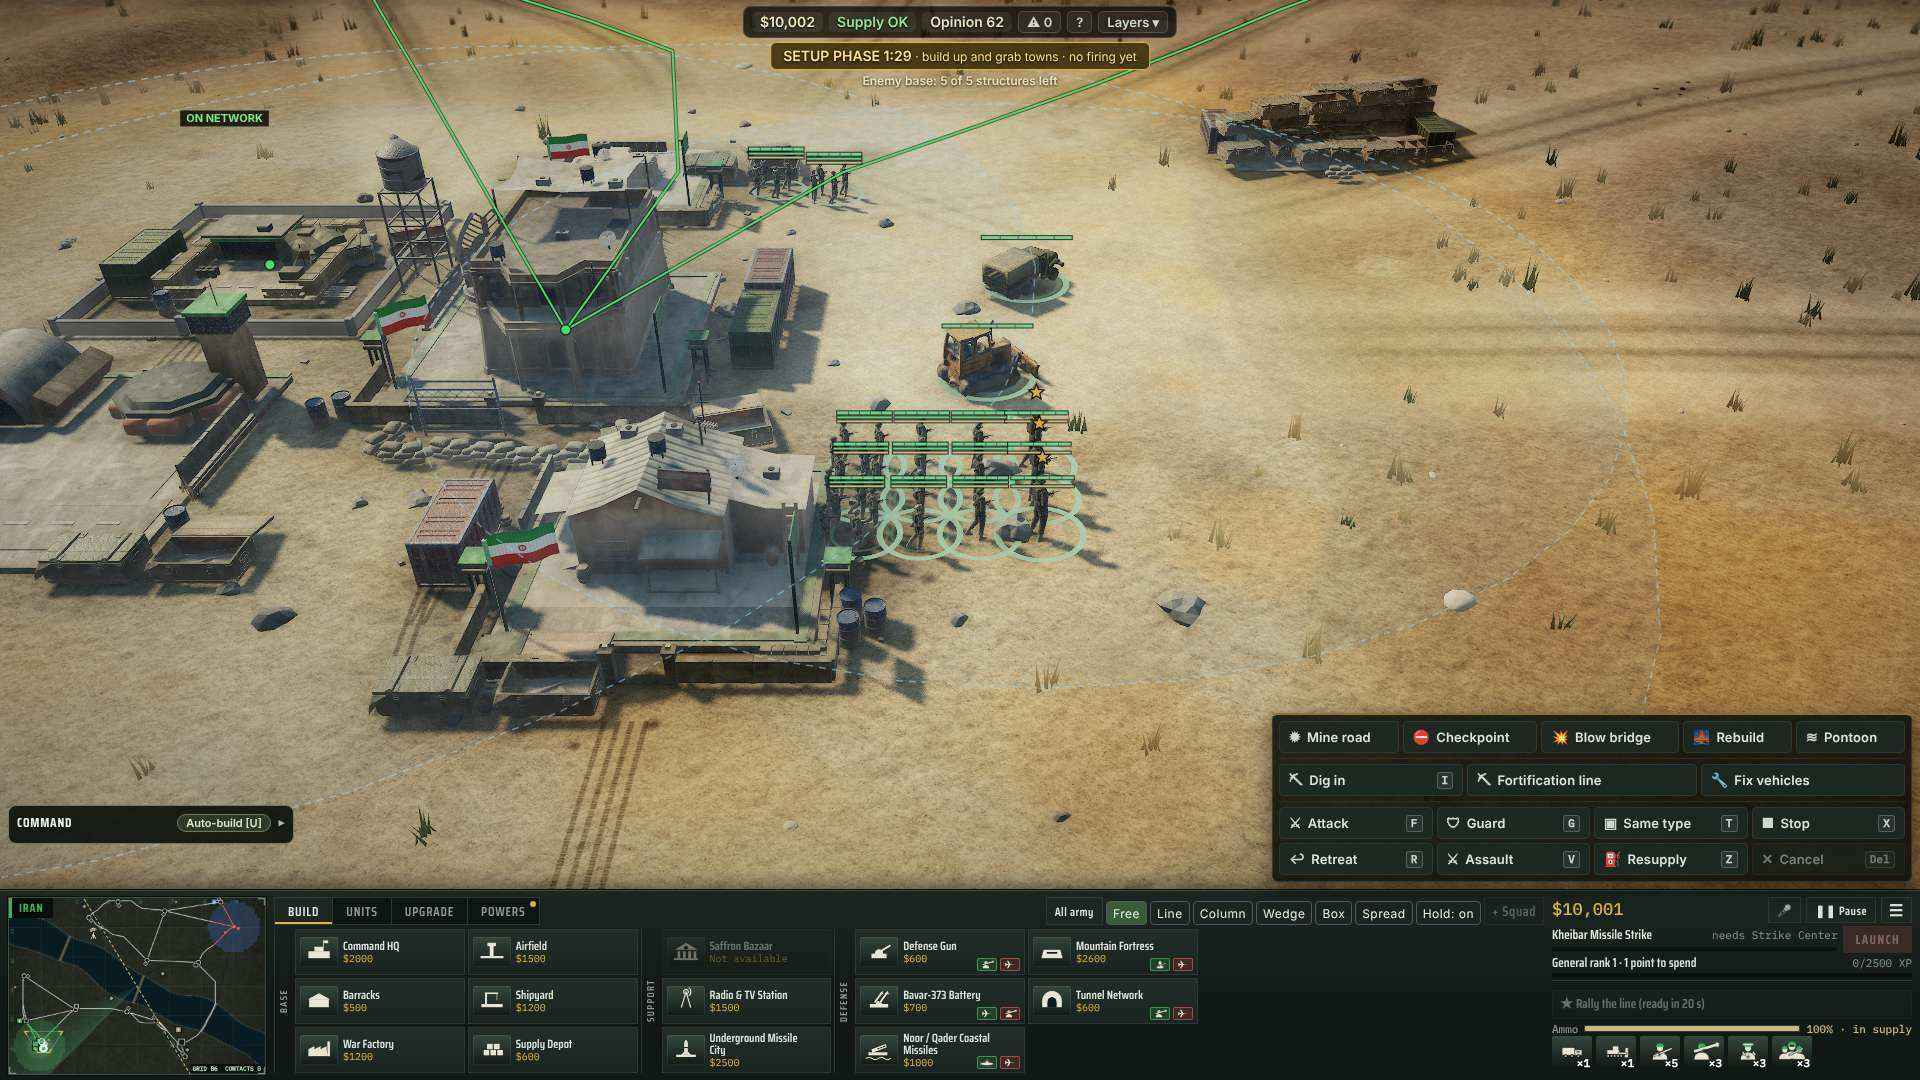
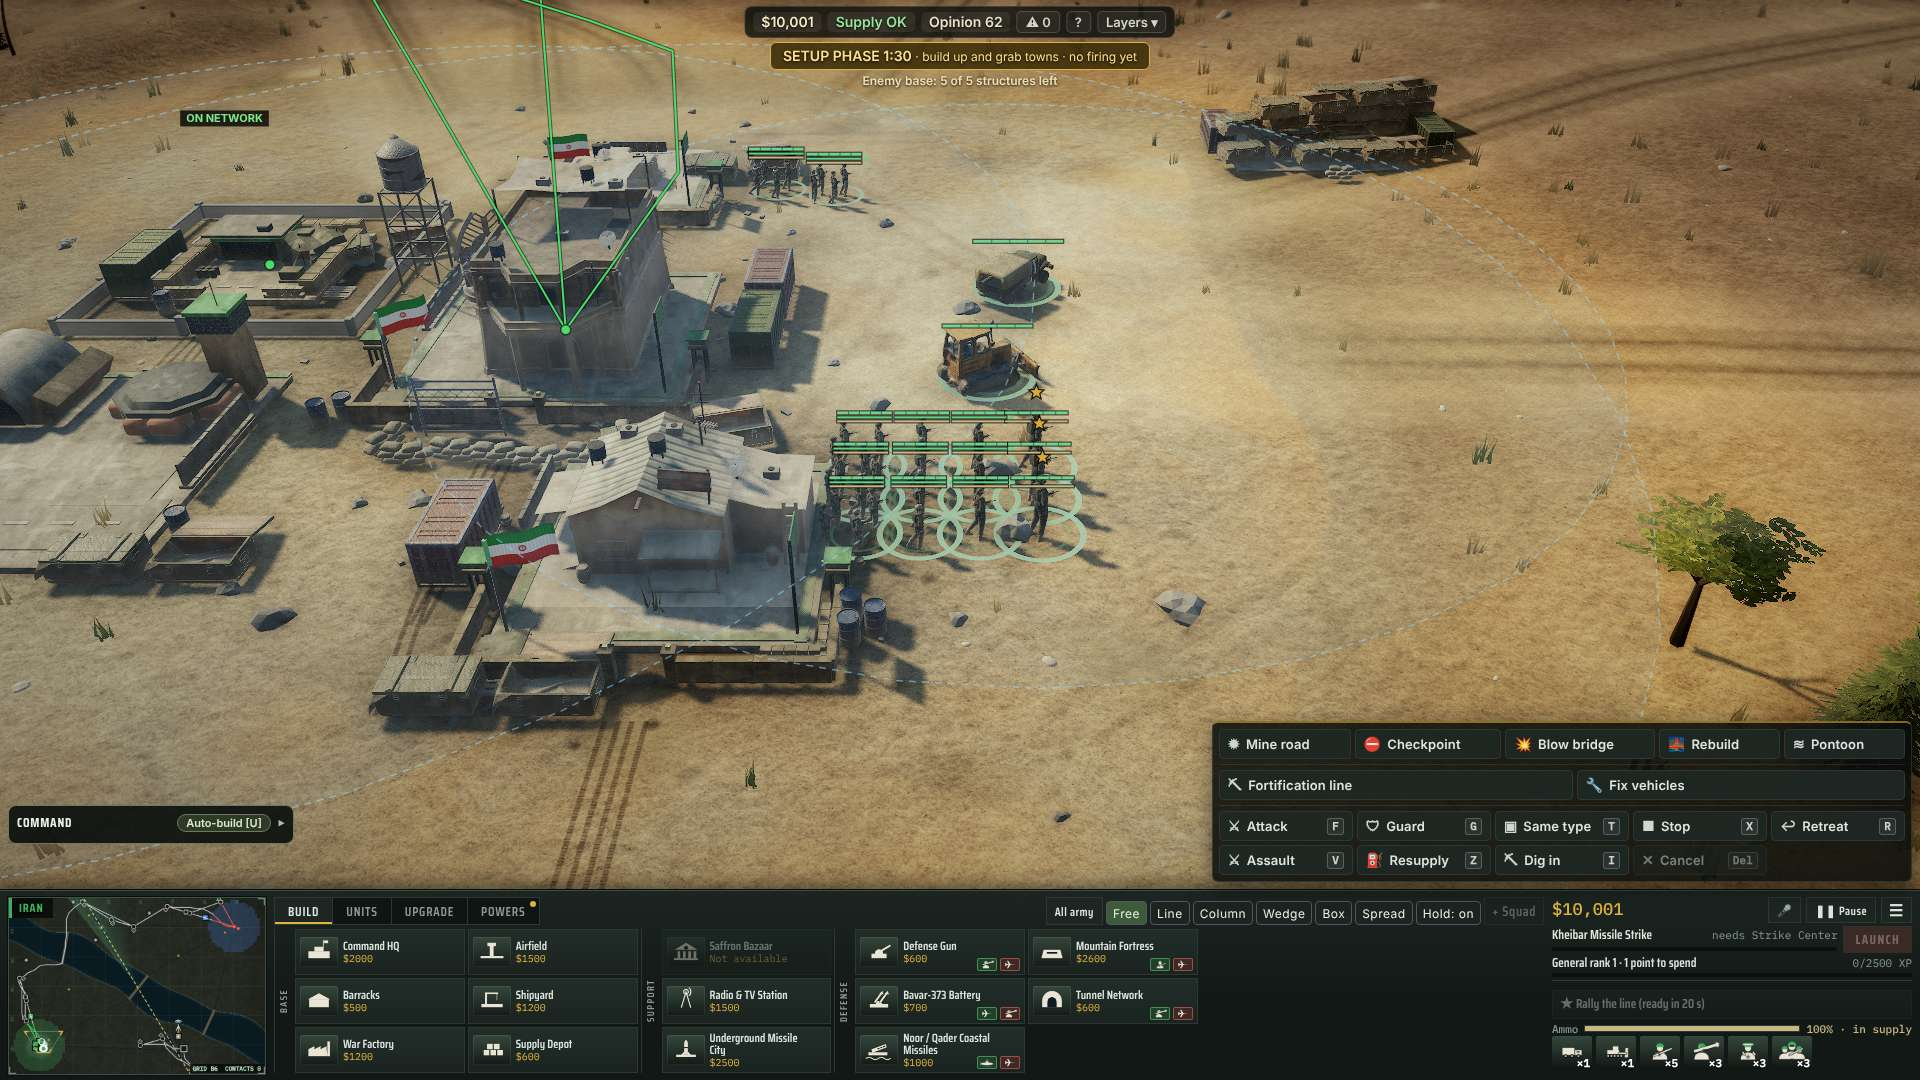
sweepfixB: 1920 pictures of the 2-row order dock
Claude-Session: https://claude.ai/code/session_01GRiS9qLYx3zc5Q1NXq3zEE

diff --git a/orch/HANDOFF-sweepfixB.md b/orch/HANDOFF-sweepfixB.md
@@ -33,7 +33,7 @@ before/after at 1280: `-army-` (IR army), `-allarmy-` (army + dozer + truck), `-
 
 ## Not done / notes
 - 1600 wide not shot separately (1280 and 1920 both clean; the dock is at most 700 px wide, so 1600 sits between).
-  The 1920 pictures show the first (3-row) dock; the 1280 army/allarmy/dozer pictures show the final 2-row dock.
+  The 1920 dozer picture shows the first (3-row) dock; army/allarmy at 1280 and 1920 show the final 2-row dock.
 - Gate: `tutorial` failed twice (step 14 never started) — it also fails on most other recent gate branches (flaky);
   `audio` / `grandlive` failed once and passed on re-run.
 - Nameplate now lives on the minimap: a design call — if Abdullah wants it back next to the cash, the header needs a
